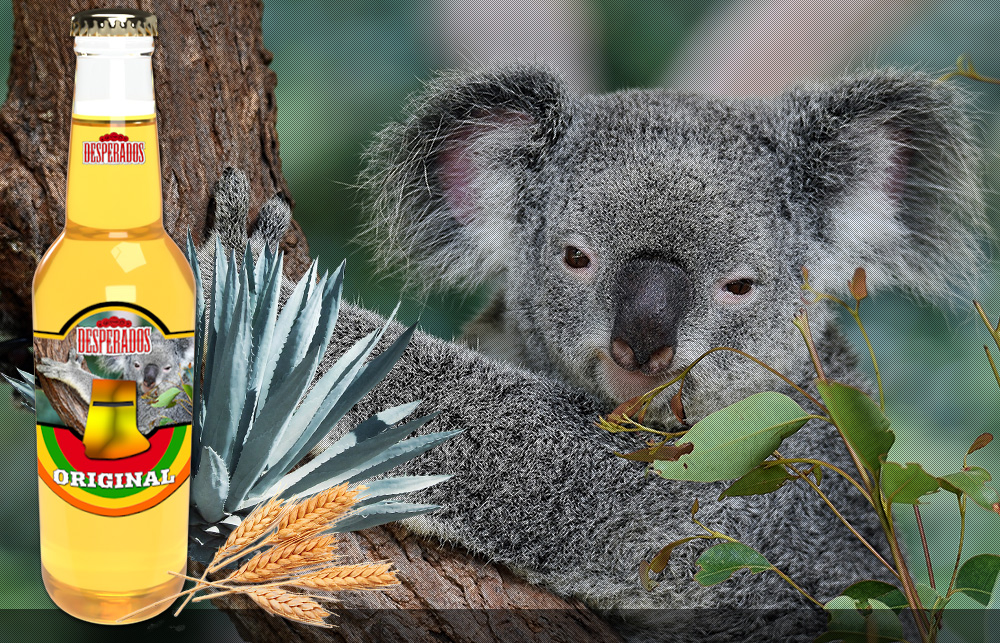
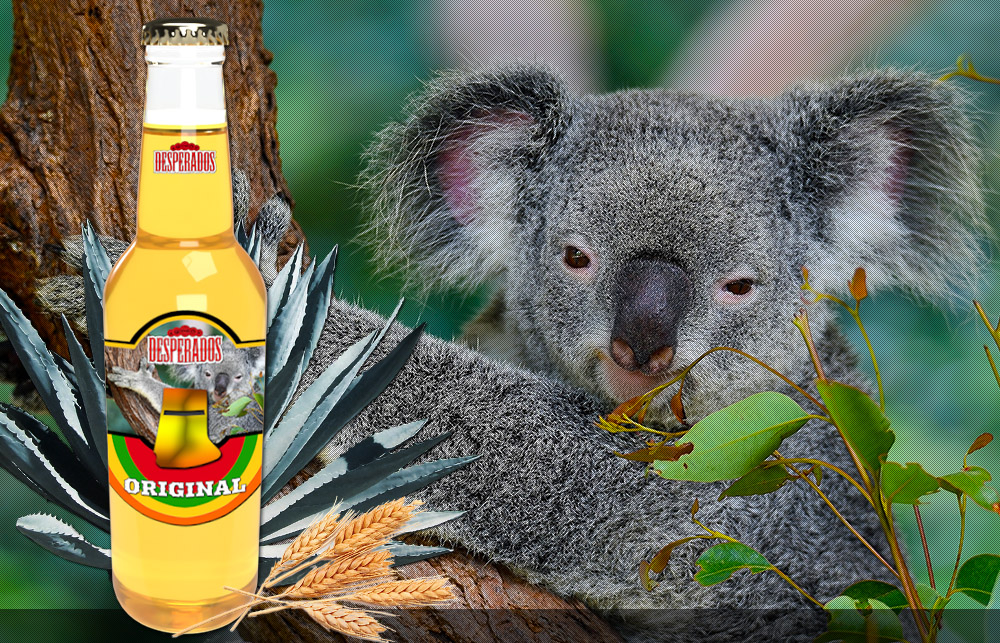
styling

diff --git a/styles/style.css b/styles/style.css
@@ -93,6 +93,10 @@ body {
 .textured {
   background-image: url(../images/bg-textured.jpg); }
 
+.boxed {
+  background-image: url(../images/beer_box.png);
+  padding: 5px; }
+
 .dark-line {
   display: block;
   margin-top: 0.5em;
@@ -171,7 +175,7 @@ h2 {
   object-position: center top; }
 
 .tt-icon {
-  margin-top: 50px;
+  margin-top: 20px;
   margin-bottom: 20px; }
 
 @media only screen and (max-width: 1024px) {

diff --git a/styles/source/_main.scss b/styles/source/_main.scss
@@ -38,6 +38,10 @@ body {
 .textured {
   background-image: url(../images/bg-textured.jpg);
 }
+.boxed {
+  background-image: url(../images/beer_box.png);
+  padding: 5px;
+}
 
 .dark-line {
   display: block;
@@ -138,7 +142,7 @@ h2 {
 }
 
 .tt-icon {
-  margin-top:50px;
+  margin-top:20px;
   margin-bottom: 20px;
 }
 

diff --git a/api/product.php b/api/product.php
@@ -16,18 +16,22 @@ $product = mysqli_fetch_assoc(getProduct($title));
         $salt=number_format($product['salt'],2);
     }
 
-    echo "<div class='col-sm-6 text-center' style='padding:20px;'>
+    echo "<div class='col-lg-6 text-center' style='padding:20px;'>
+          <div class='boxed'>
             <img src={$product['url']} class='img-fluid' alt={$product['alt_desc']} />
+            </div>
+            <div class='box-text'>
             <h3>" . strtoupper($product['title']) . "</h3>
             <p>{$product['long_desc']}</p>
+            </div>
         </div>
 
-        <div class='col-sm-6' style='padding:20px;'>
+        <div class='col-lg-6' style='padding:20px;'>
           <table class='table table-dark table-striped table-sm'>
-          <thead class='text-center'>
+          <thead'>
           <tr>
-            <h2>{$product['title']}</h2>
-            <h3>{$product['short_desc']}</h3>
+            <h2 class='text-center'>{$product['title']}</h2>
+            <h3 class='text-center'>{$product['short_desc']}</h3><br>
             </tr>
             </thead>
             <tbody>
